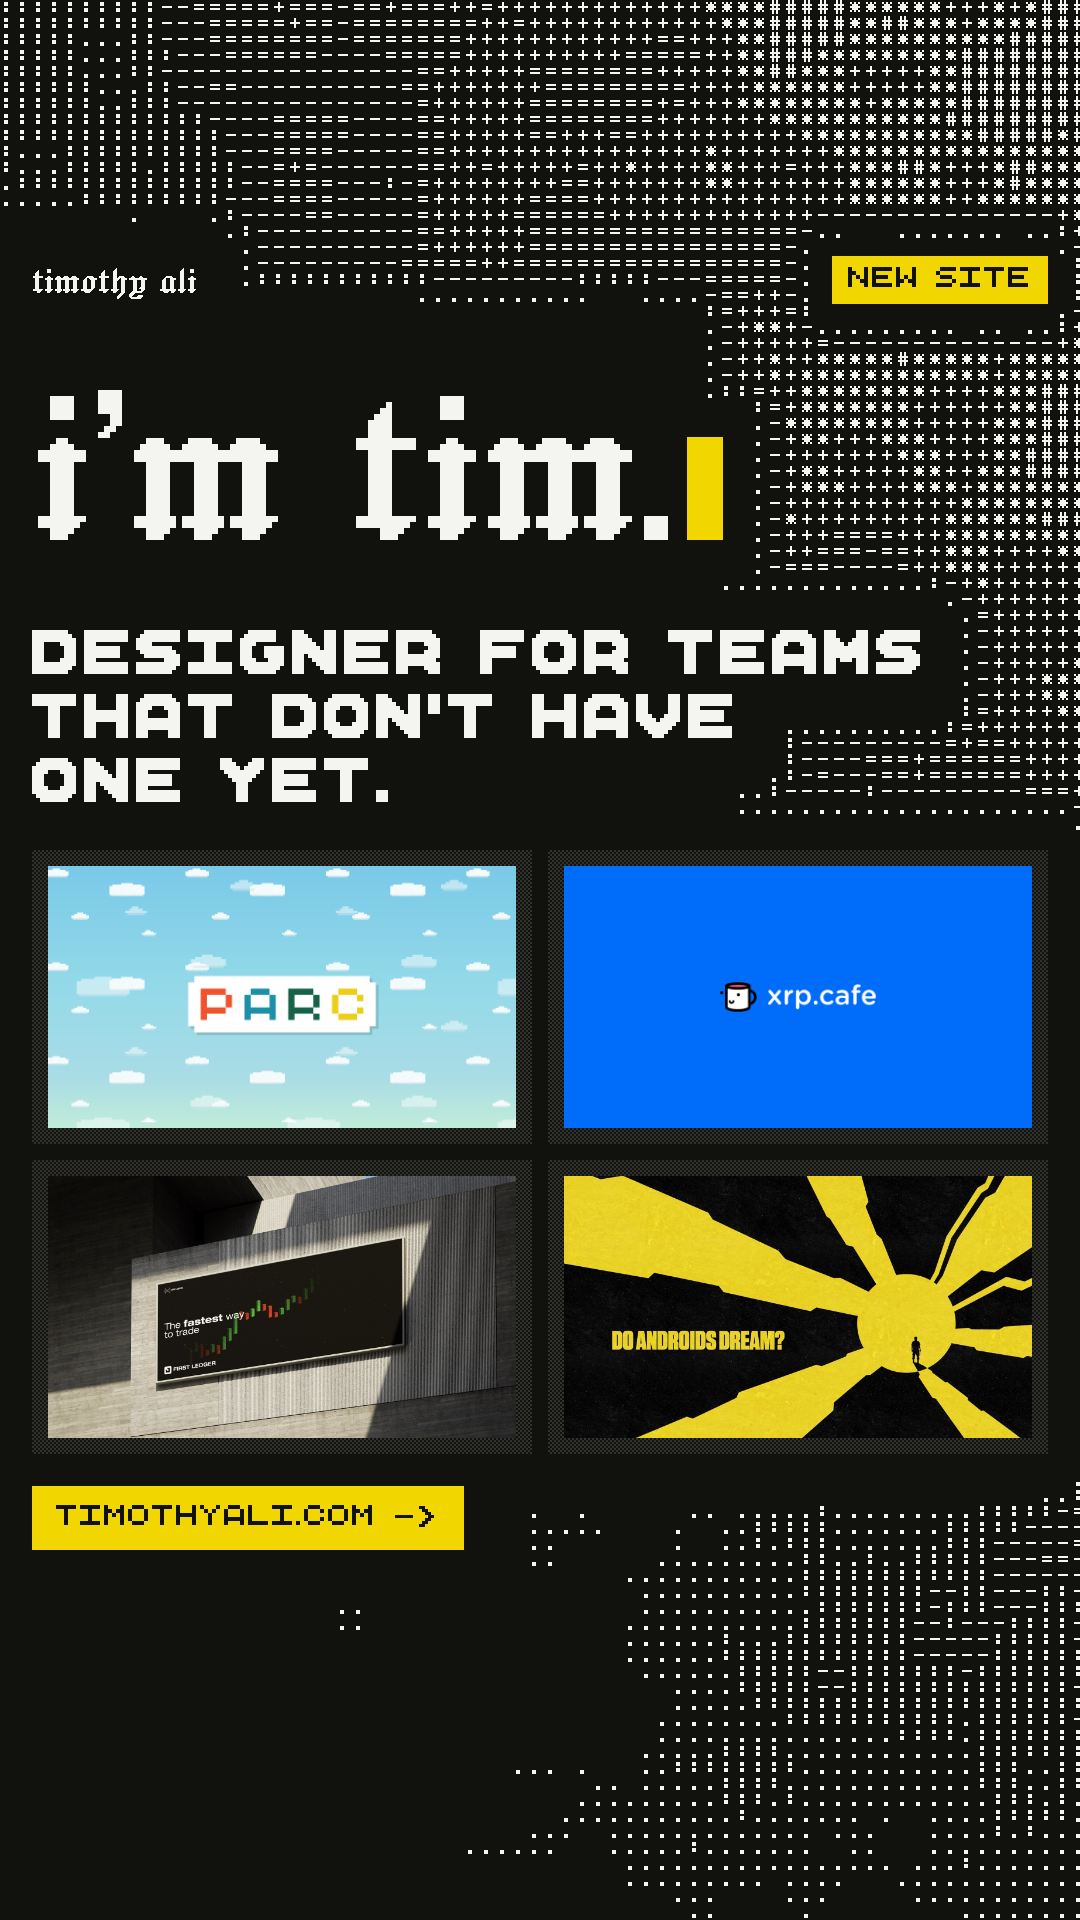
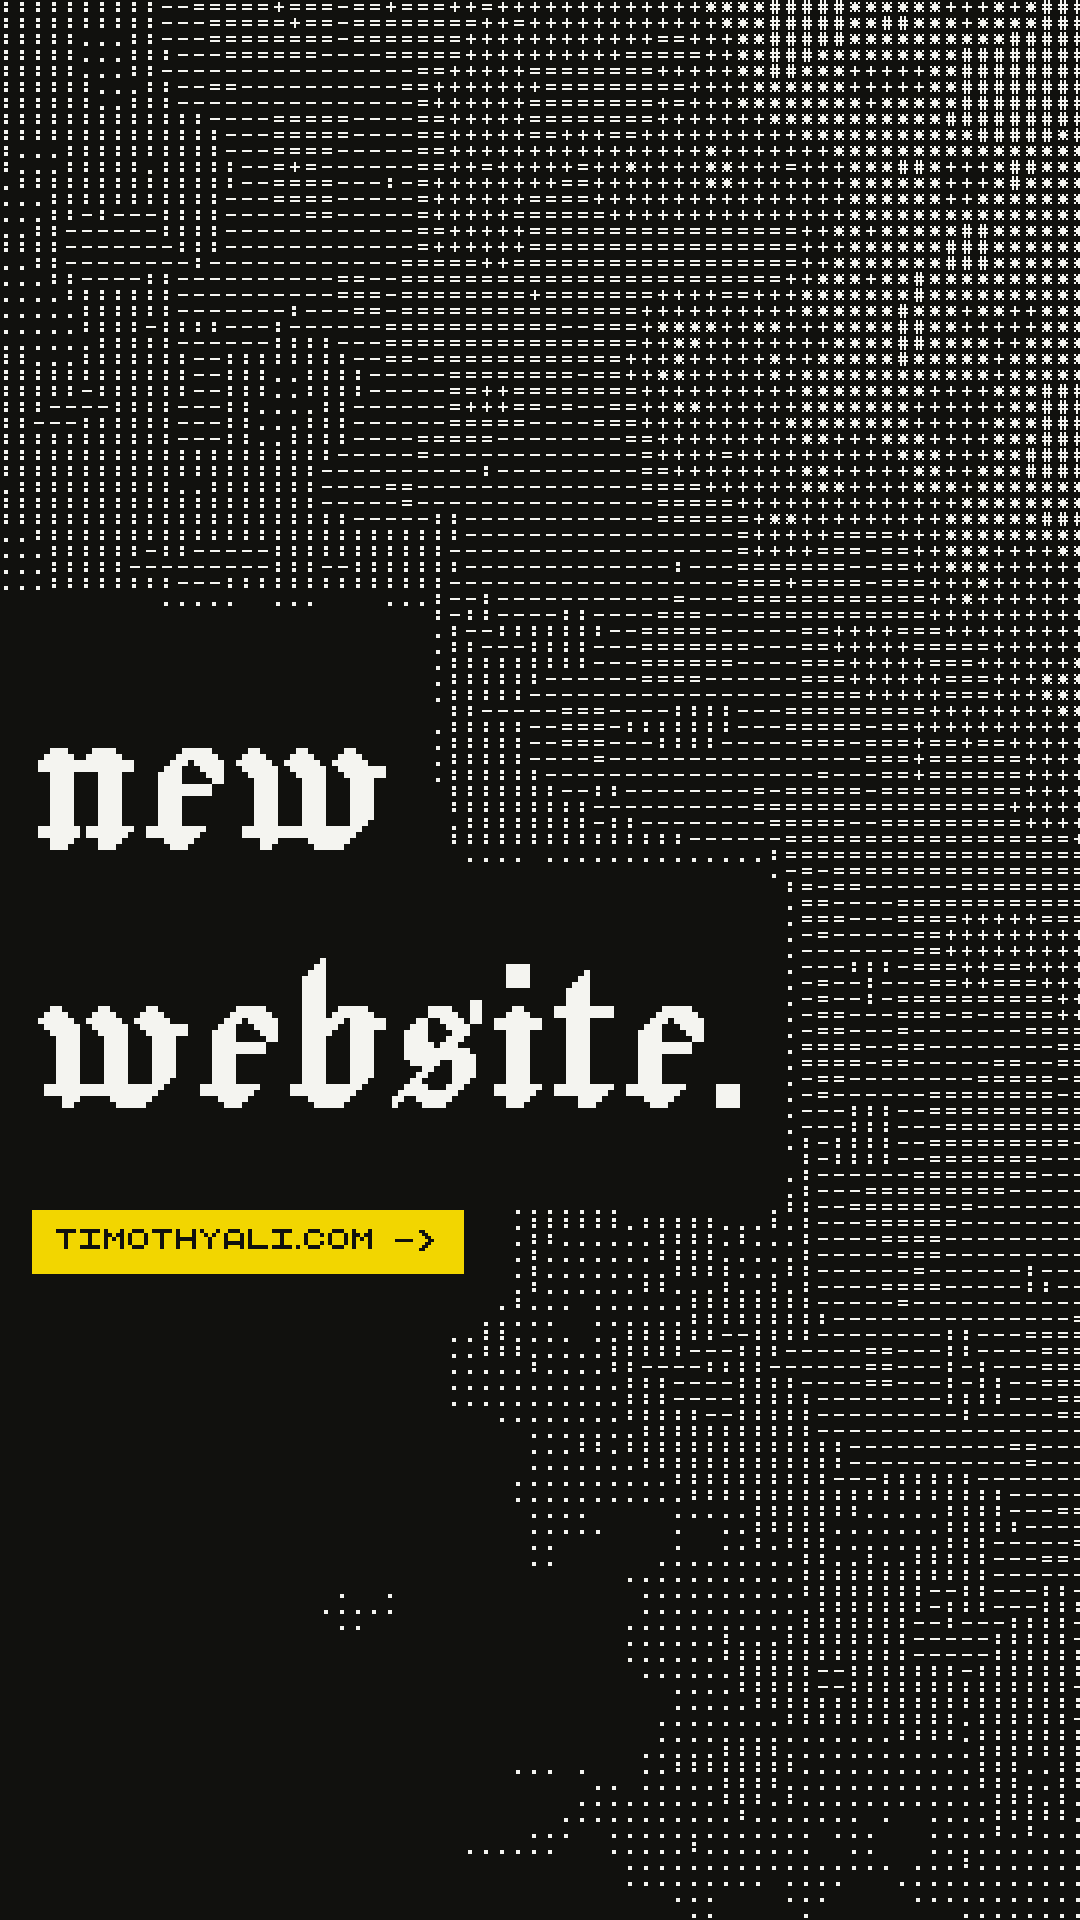
Social: story is the word, the field and the URL (0087)

diff --git a/src/routes/og/[id]/+page.svelte b/src/routes/og/[id]/+page.svelte
@@ -32,11 +32,8 @@
     <!-- Instagram story, 1080×1920, viewed at about a third of that: the small roles step
          up their own ladder (label 12.5 → 25, arrow 16 → 24) and everything sits inside the
          story safe zone (y 270–1540). The generator hides the chrome for this one. -->
-    <Band class="og-story" mode="sky" seed={3} density={0.9} avoid=".story-top > *, .story-name, .story-line, .story-cards, .story-cta">
-      <div class="story-top"><span class="wordmark blackletter">timothy ali</span><span class="lbl story-chip">New site</span></div>
-      <h1 class="blackletter story-name"><Decode text="i’m tim." /><Cursor size="em" /></h1>
-      <p class="display story-line">Designer for teams<br />that don’t have<br />one yet.</p>
-      <div class="story-cards">{#each projects as p}<div class="card"><Picture src={p.cover.src} alt="" width={p.cover.w} height={p.cover.h} eager /></div>{/each}</div>
+    <Band class="og-story" mode="sky" seed={3} density={0.9} avoid=".story-name, .story-cta">
+      <h1 class="blackletter story-name">new<br />website.</h1>
       <Cta href="https://www.timothyali.com" class="lbl story-cta">timothyali.com <Arrow /></Cta>
     </Band>
   {:else if data.id === 'work'}
@@ -76,12 +73,7 @@
 
 /* Story — full frame, no chrome (the generator hides it), content in the safe zone */
 .og.story{height:1920px}
-.og.story :global(.band){height:1920px;padding:256px var(--gutter) 0;display:flex;flex-direction:column;align-items:flex-start;gap:var(--s4)}
-.story-top{align-self:stretch;display:flex;justify-content:space-between;align-items:center}
-.story-chip{font-size:25px;line-height:32px;background:var(--accent);color:var(--on-accent);padding:var(--s1) var(--s2)}
-.story-name{font-size:258px;line-height:258px;white-space:nowrap}
-.story-line{font-size:55px;line-height:64px}
-.story-cards{align-self:stretch;display:grid;grid-template-columns:1fr 1fr;gap:var(--s2)}
+.og.story :global(.band){height:1920px;padding:0 var(--gutter);display:flex;flex-direction:column;justify-content:center;align-items:flex-start;gap:var(--s6)}.story-name{font-size:258px;line-height:258px}
 .og :global(.story-cta){font-size:25px;line-height:32px}
 .og :global(.story-cta .mono){font-size:24px;line-height:32px}
 

diff --git a/docs/decision-log.md b/docs/decision-log.md
@@ -1374,4 +1374,4 @@ Timothy found the first OG set boring compared with the site and requested the t
 - **Date:** 2026-09-10
 - **Status:** Timothy’s request (“lets make a post for my instagram story”); assistant composition awaiting his eye
 
-**Decision.** The story is one more id on the dev-only `/og/` route (`/og/story`), so it is drawn by the same components and field as the site: the sky hero field, wordmark and a “New site” chip, “i’m tim.” at 258 with the cursor, the positioning line at 55/64 on three deliberate lines, the selected four as cards, and a yellow `timothyali.com ->` block. The frame is 1080×1920 with the layout chrome hidden by the generator, and every element sits inside Instagram’s safe zone (y 256–1540). Because a story is viewed at about a third of its pixels, the two small roles step up their own ladders rather than being scaled: label 12.5 → 25 (the index accent size), arrow 16 → 24 (three cells). Output: `docs/social/story-launch.png`, regenerated by `pnpm social:generate`.
+**Decision.** Timothy cut the first composition (name, positioning line, four covers) down to three things: “new website.” in the lowercase blackletter at 258 on two lines, the sky field behind it, and the URL as the yellow `timothyali.com ->` block. It is one more id on the dev-only `/og/` route (`/og/story`), 1080×1920 with the layout chrome hidden by the generator; the block steps the label up its own ladder (12.5 → 25, arrow 16 → 24) because a story is seen at about a third of its pixels. Output: `docs/social/story-launch.png`, regenerated by `pnpm social:generate`.
